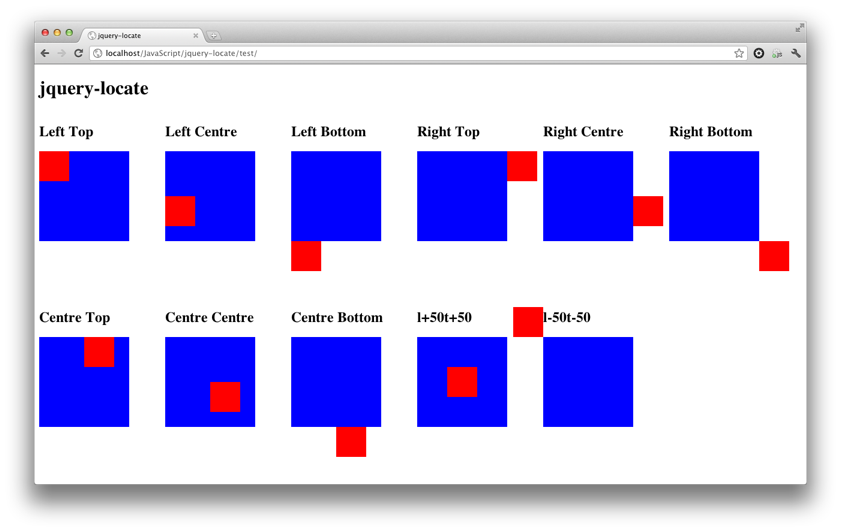
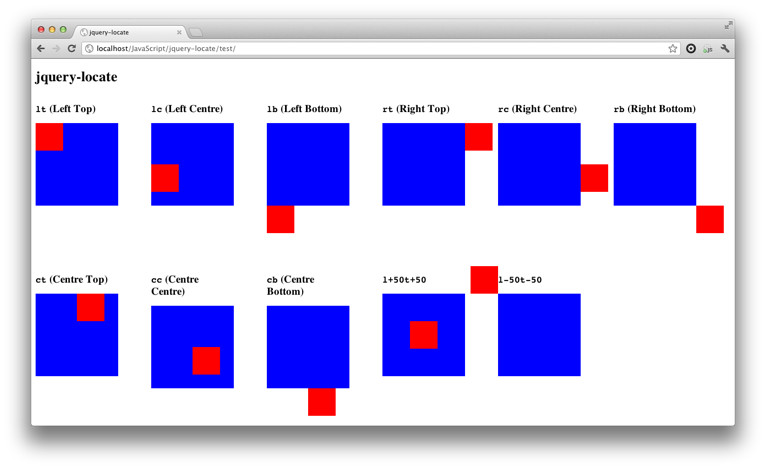
Updated the documentation; simplified the tests a little

diff --git a/test/index.html b/test/index.html
@@ -5,11 +5,16 @@
         <title>jquery-locate</title>
 
         <style type="text/css">
+            body {
+                font-size: 80%;
+            }
+
             .test {
                 float: left;
-                width: 200px;
+                width: 150px;
                 height: 300px;
                 margin: 0 10px 10px 0;
+                padding-right: 50px;
             }
 
             .test > .ref_el {
@@ -34,101 +39,101 @@
         <h1>jquery-locate</h1>
 
         <div class="test" id="test_1">
-            <h2>Left Top</h2>
+            <h2><code>lt</code> (Left Top)</h2>
             <div class="ref_el"></div>
             <div class="el"></div>
             <script type="text/javascript">
-                jQuery('#test_1 > .el').locate(jQuery('#test_1 > .ref_el'), 'lt');
+                jQuery('#test_1 > .el').locate('#test_1 > .ref_el', 'lt');
             </script>
         </div>
 
         <div class="test" id="test_2">
-            <h2>Left Centre</h2>
+            <h2><code>lc</code> (Left Centre)</h2>
             <div class="ref_el"></div>
             <div class="el"></div>
             <script type="text/javascript">
-                jQuery('#test_2 > .el').locate(jQuery('#test_2 > .ref_el'), 'lc');
+                jQuery('#test_2 > .el').locate('#test_2 > .ref_el', 'lc');
             </script>
         </div>
 
         <div class="test" id="test_3">
-            <h2>Left Bottom</h2>
+            <h2><code>lb</code> (Left Bottom)</h2>
             <div class="ref_el"></div>
             <div class="el"></div>
             <script type="text/javascript">
-                jQuery('#test_3 > .el').locate(jQuery('#test_3 > .ref_el'), 'lb');
+                jQuery('#test_3 > .el').locate('#test_3 > .ref_el', 'lb');
             </script>
         </div>
 
         <div class="test" id="test_4">
-            <h2>Right Top</h2>
+            <h2><code>rt</code> (Right Top)</h2>
             <div class="ref_el"></div>
             <div class="el"></div>
             <script type="text/javascript">
-                jQuery('#test_4 > .el').locate(jQuery('#test_4 > .ref_el'), 'rt');
+                jQuery('#test_4 > .el').locate('#test_4 > .ref_el', 'rt');
             </script>
         </div>
 
         <div class="test" id="test_5">
-            <h2>Right Centre</h2>
+            <h2><code>rc</code> (Right Centre)</h2>
             <div class="ref_el"></div>
             <div class="el"></div>
             <script type="text/javascript">
-                jQuery('#test_5 > .el').locate(jQuery('#test_5 > .ref_el'), 'rc');
+                jQuery('#test_5 > .el').locate('#test_5 > .ref_el', 'rc');
             </script>
         </div>
 
         <div class="test" id="test_6">
-            <h2>Right Bottom</h2>
+            <h2><code>rb</code> (Right Bottom)</h2>
             <div class="ref_el"></div>
             <div class="el"></div>
             <script type="text/javascript">
-                jQuery('#test_6 > .el').locate(jQuery('#test_6 > .ref_el'), 'rb');
+                jQuery('#test_6 > .el').locate('#test_6 > .ref_el', 'rb');
             </script>
         </div>
 
         <div class="test" id="test_7">
-            <h2>Centre Top</h2>
+            <h2><code>ct</code> (Centre Top)</h2>
             <div class="ref_el"></div>
             <div class="el"></div>
             <script type="text/javascript">
-                jQuery('#test_7 > .el').locate(jQuery('#test_7 > .ref_el'), 'ct');
+                jQuery('#test_7 > .el').locate('#test_7 > .ref_el', 'ct');
             </script>
         </div>
 
         <div class="test" id="test_8">
-            <h2>Centre Centre</h2>
+            <h2><code>cc</code> (Centre Centre)</h2>
             <div class="ref_el"></div>
             <div class="el"></div>
             <script type="text/javascript">
-                jQuery('#test_8 > .el').locate(jQuery('#test_8 > .ref_el'), 'cc');
+                jQuery('#test_8 > .el').locate('#test_8 > .ref_el', 'cc');
             </script>
         </div>
 
         <div class="test" id="test_9">
-            <h2>Centre Bottom</h2>
+            <h2><code>cb</code> (Centre Bottom)</h2>
             <div class="ref_el"></div>
             <div class="el"></div>
             <script type="text/javascript">
-                jQuery('#test_9 > .el').locate(jQuery('#test_9 > .ref_el'), 'cb');
+                jQuery('#test_9 > .el').locate('#test_9 > .ref_el', 'cb');
             </script>
         </div>
 
         <div class="test" id="test_10">
-            <h2>l+50t+50</h2>
+            <h2><code>l+50t+50</code></h2>
             <div class="ref_el"></div>
             <div class="el"></div>
             <script type="text/javascript">
-                jQuery('#test_10 > .el').locate(jQuery('#test_10 > .ref_el'), 'l+50t+50');
+                jQuery('#test_10 > .el').locate('#test_10 > .ref_el', 'l+50t+50');
             </script>
         </div>
 
         <div class="test" id="test_11">
-            <h2>l-50t-50</h2>
+            <h2><code>l-50t-50</code></h2>
             <div class="ref_el"></div>
             <div class="el"></div>
             <script type="text/javascript">
-                jQuery('#test_11 > .el').locate(jQuery('#test_11 > .ref_el'), 'l-50t-50');
+                jQuery('#test_11 > .el').locate('#test_11 > .ref_el', 'l-50t-50');
             </script>
         </div>
     </body>

diff --git a/README.md b/README.md
@@ -1,3 +1,25 @@
 #jquery-locate#
 
+jquery-locate positions the top left corner of the selected element relative to another, 'reference' element.  The
+required position is specified in a simple rule-string based on CSS' approach to positioning.
+
+The `locate` method responds to nine base x-y positions (e.g. `rb` for "right bottom").  Additionally you may specify a
+pixel offset for each axis (e.g. `r+3b-3`).
+
 ![](https://github.com/archaichorizon/jquery-locate/raw/master/screenshot_1.png)
+
+##Usage##
+
+In the following example `#locateable` is moved to the top left corner of `#reference`.
+
+<code>
+jQuery('#locateable').locate('#reference', 'lt');
+</code>
+
+Next, `#locateable` is offset from the top left corner of `#reference` by 50 pixels along both the x and the y axes.
+
+<code>
+jQuery('#locateable').locate('#reference', 'l+50t+50');
+</code>
+
+Browse to `test/index.html` for working examples.
